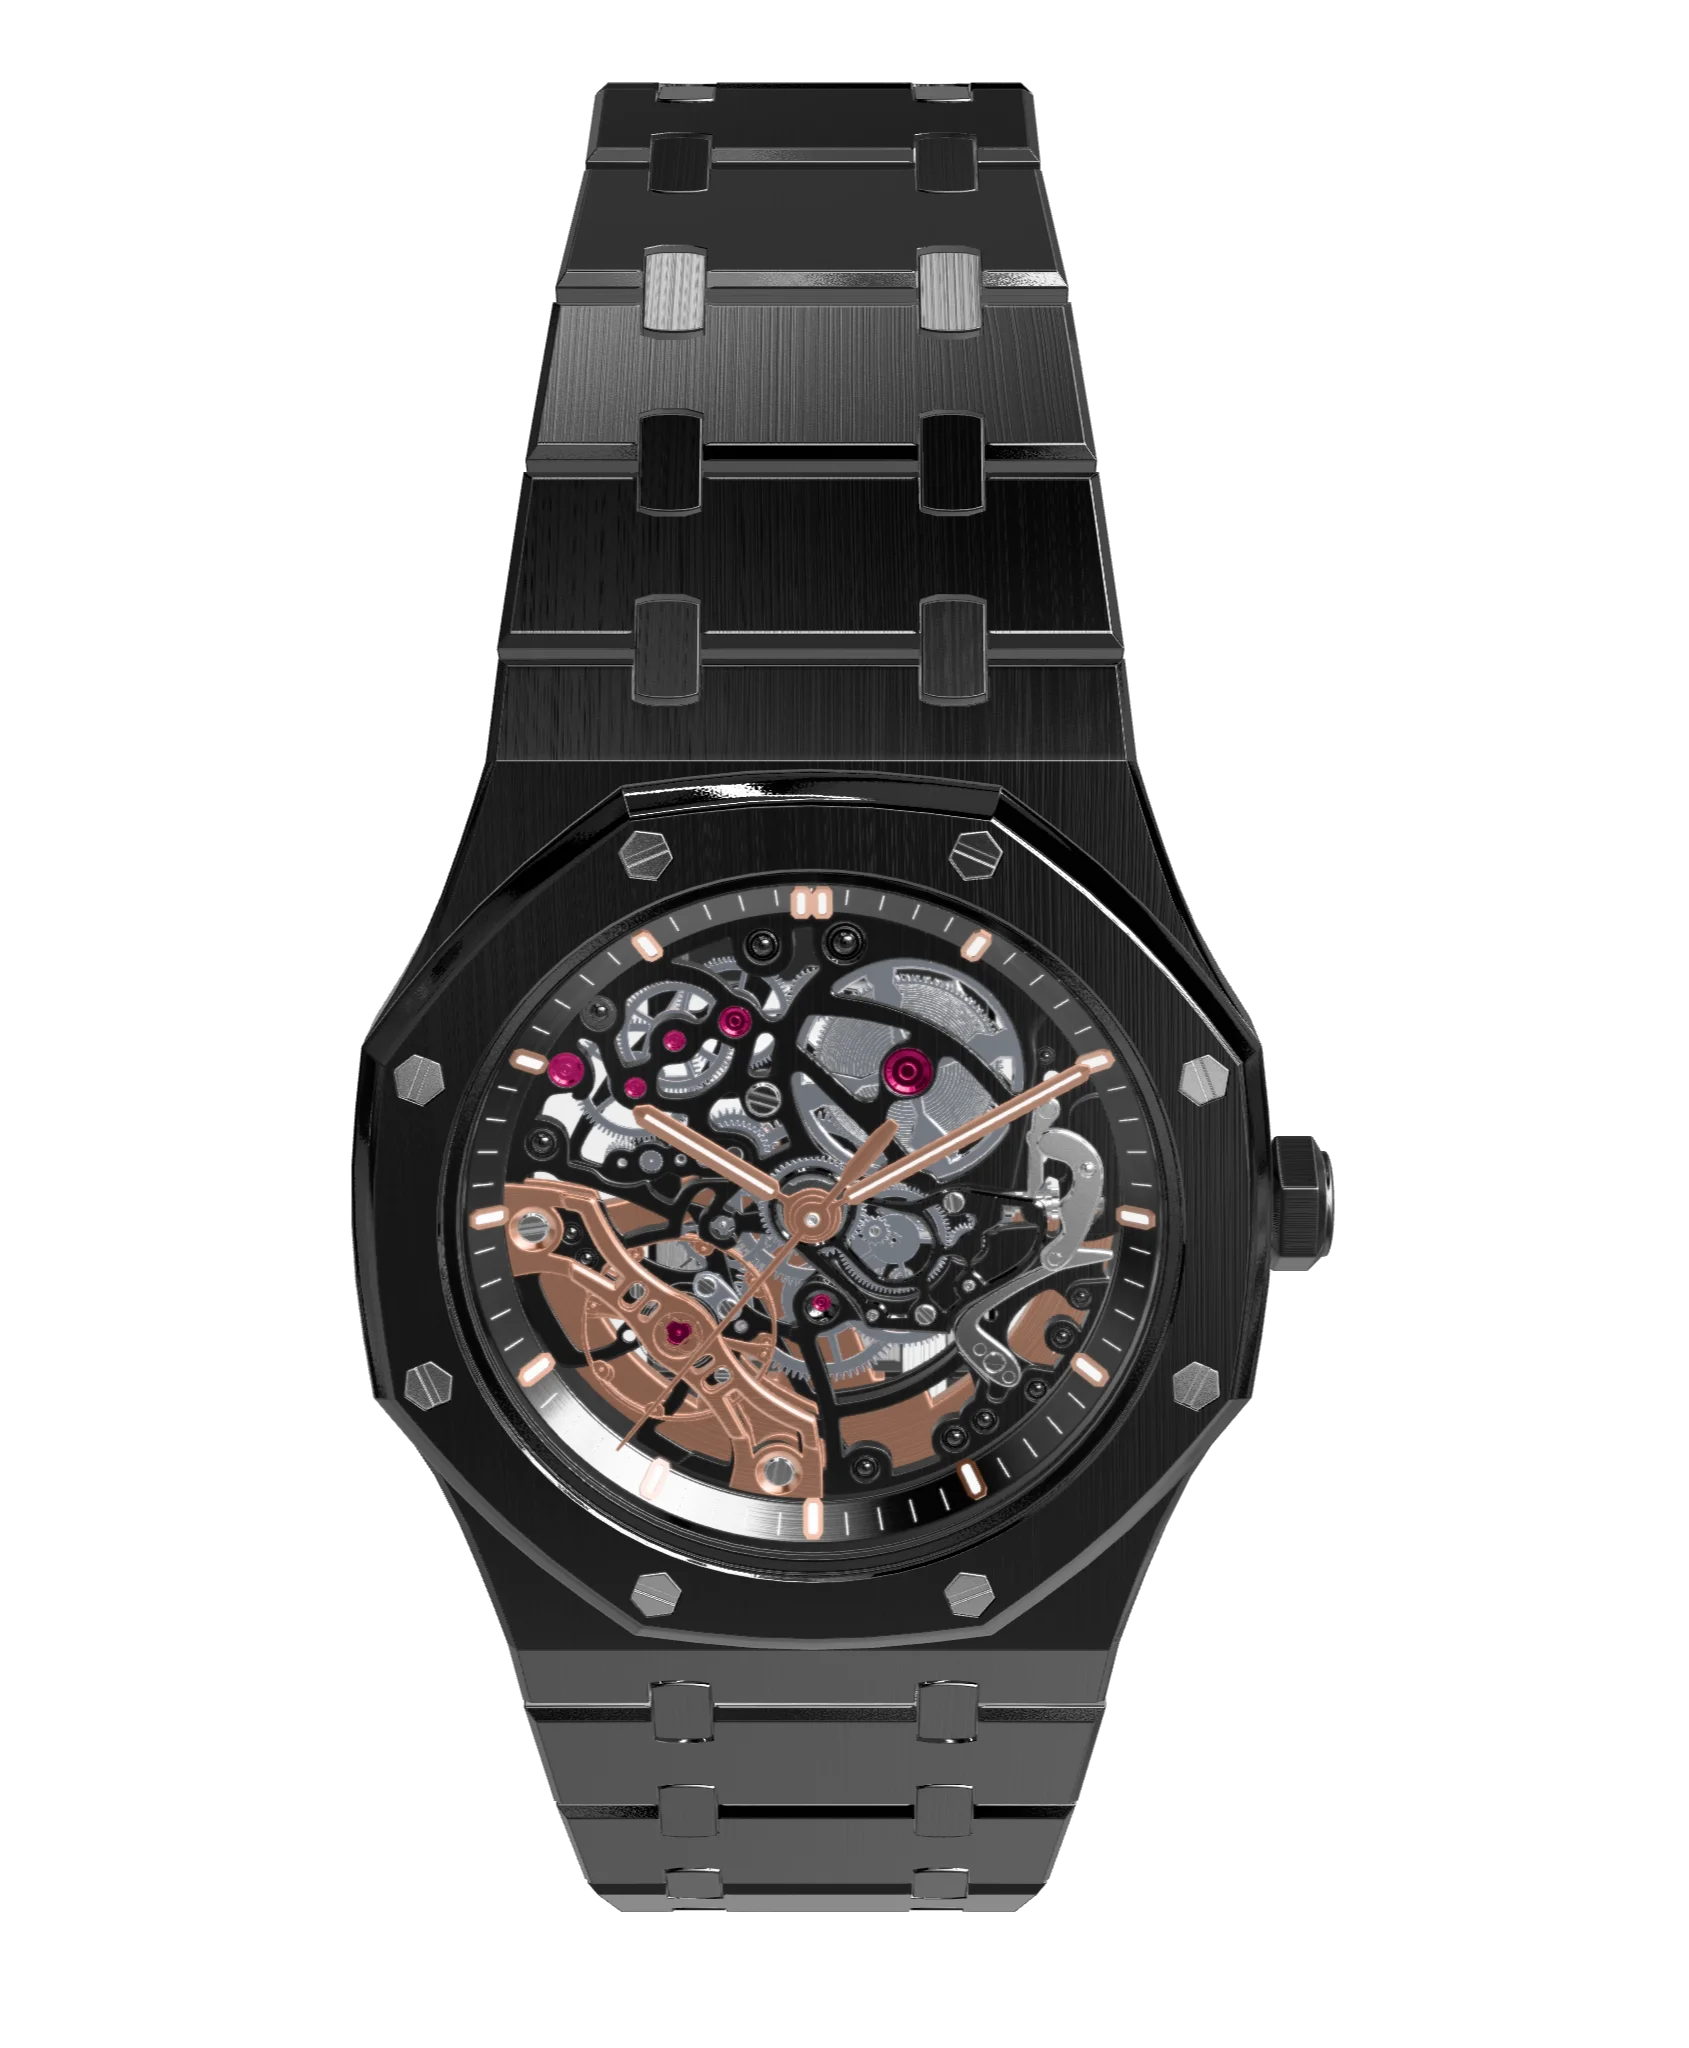
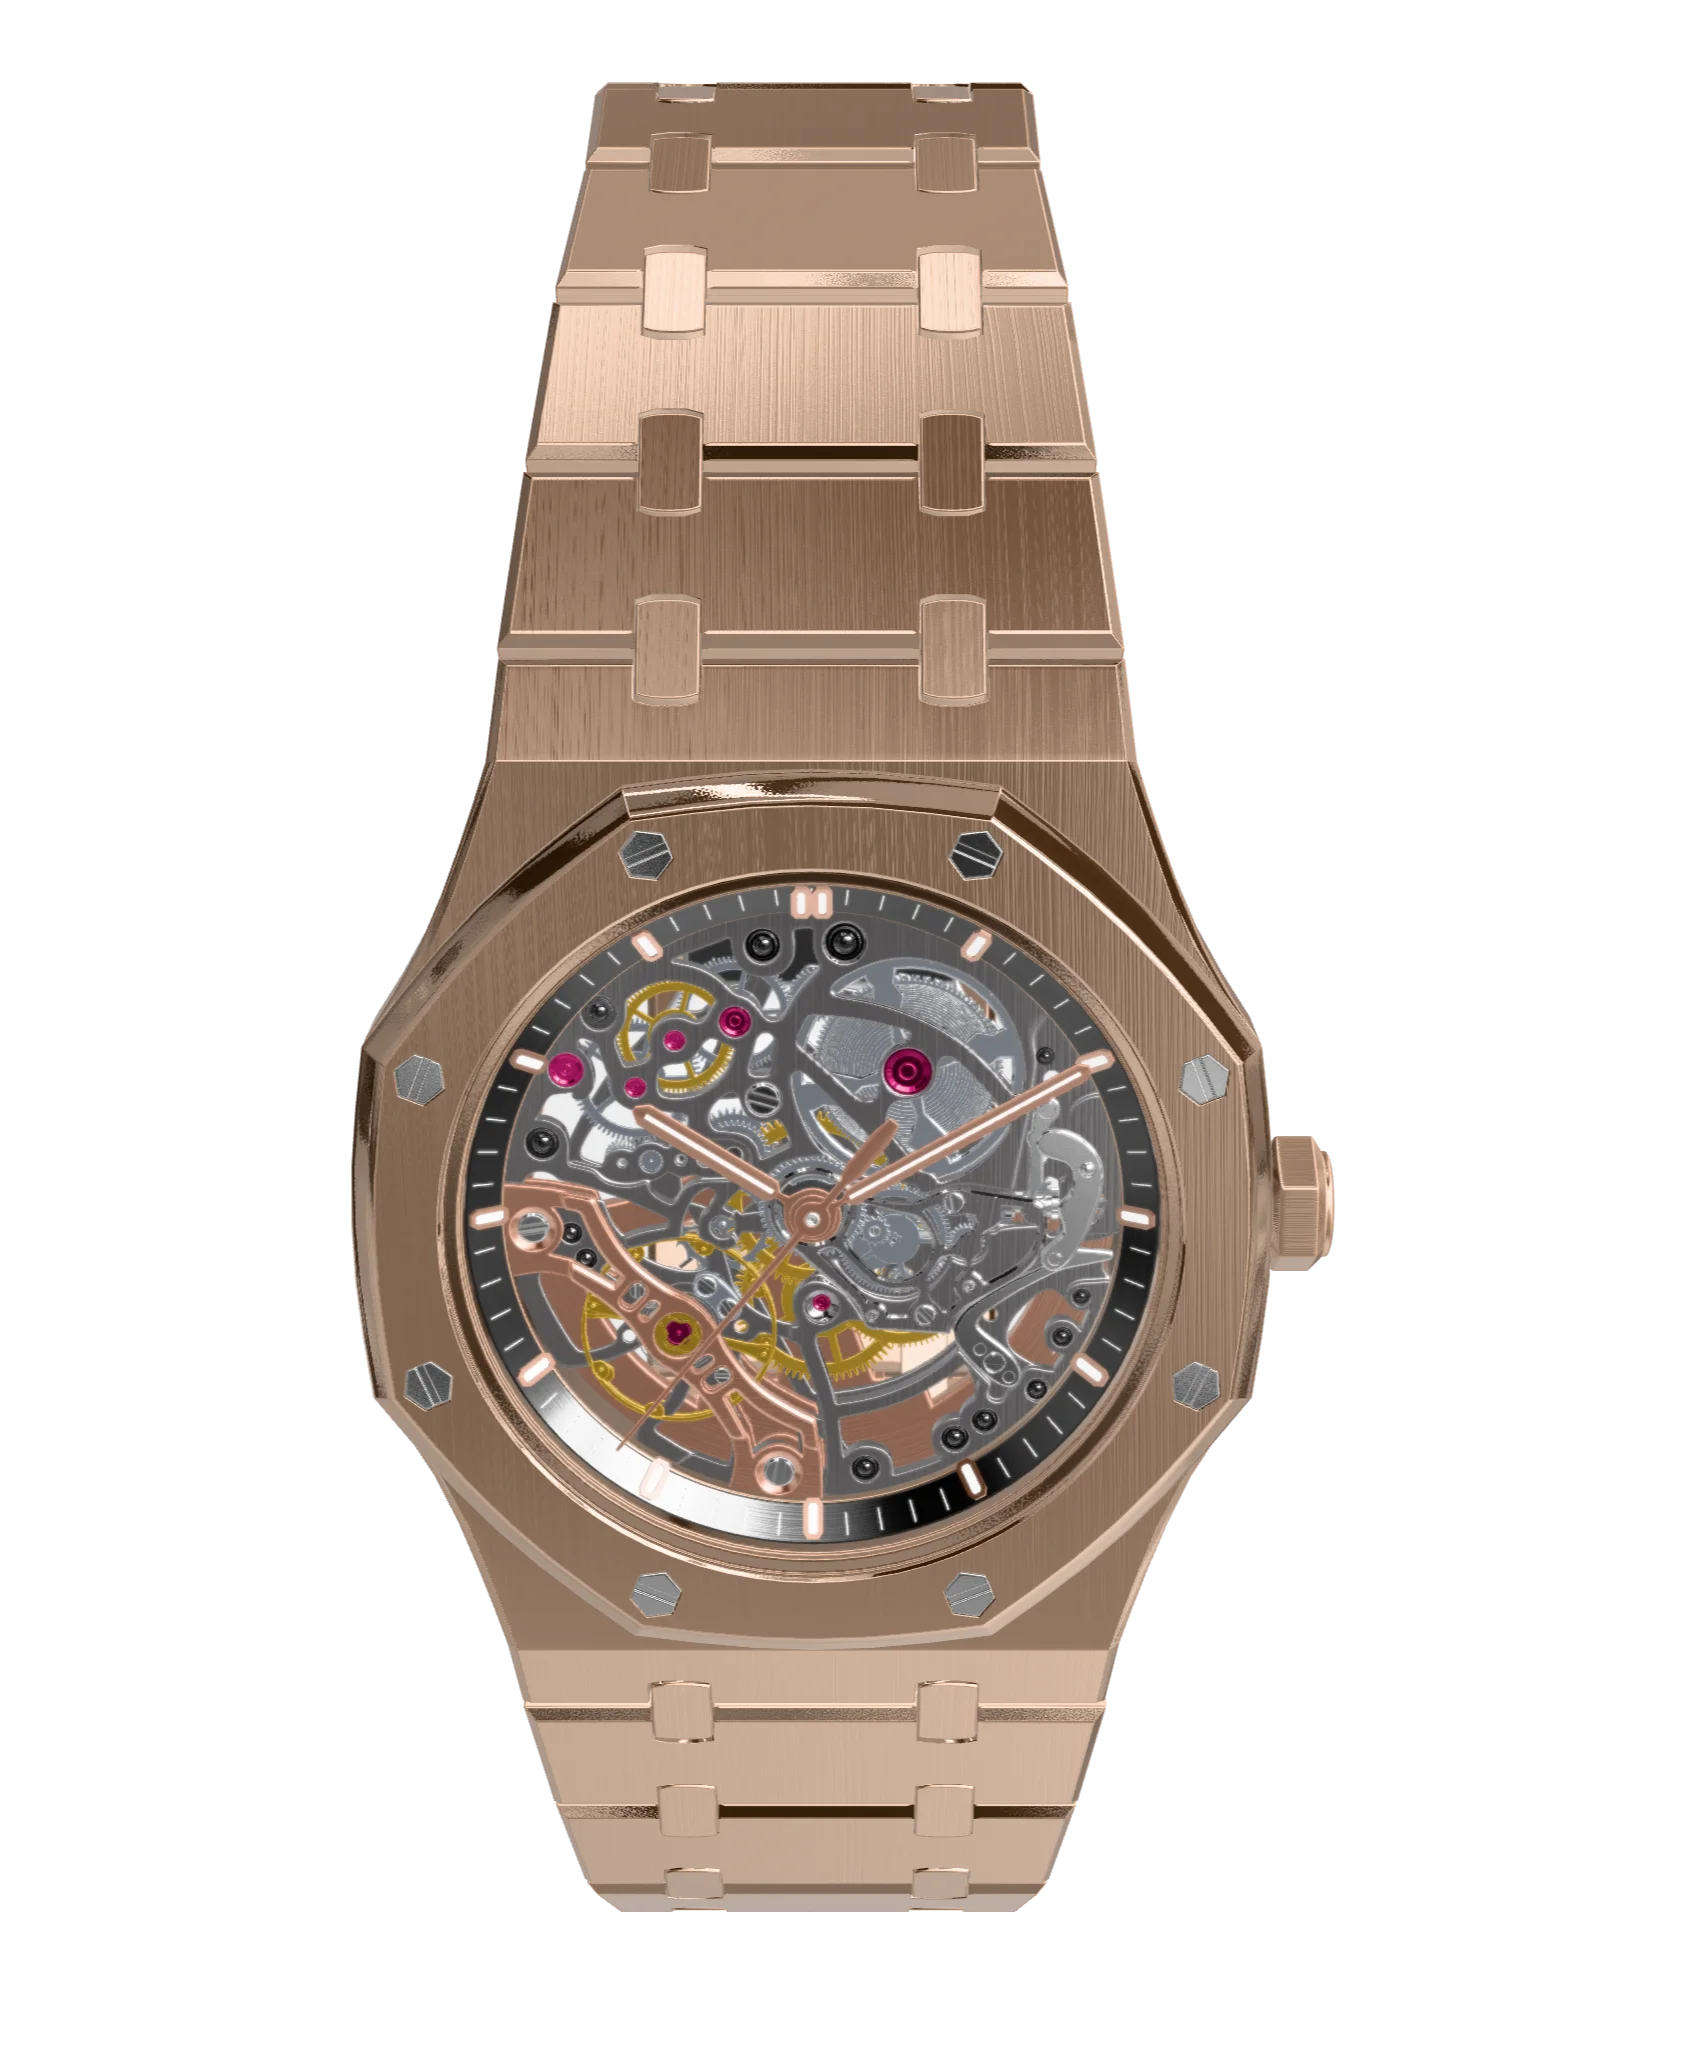
update_html

Changed region(s): [[0.1847, 0.0312, 0.8005, 0.9375]]

diff --git a/index.html b/index.html
@@ -1,22 +1,46 @@
 <!doctype html>
 <html lang="en">
   <head>
-    <title>&lt;model-viewer&gt; template</title>
+    <title>Model Viewer Template</title>
     <meta charset="utf-8">
-    <meta name="description" content="&lt;model-viewer&gt; template">
+    <meta name="description" content="Model Viewer with Variants">
     <meta name="viewport" content="width=device-width, initial-scale=1">
     <link type="text/css" href="./styles.css" rel="stylesheet"/>
   </head>
   <body>
-    <!-- <model-viewer> HTML element -->
-    <model-viewer src="GLTF_AP_RO_Skeleton.glb" ar ar-modes="webxr scene-viewer quick-look" camera-controls tone-mapping="neutral" poster="poster.webp" shadow-intensity="0" environment-image="brown_photostudio_02_2k_BW.hdr" exposure="1.5" shadow-softness="1">
+    <!-- Model Viewer HTML element -->
+    <model-viewer id="ap-watch" src="GLTF_AP_RO_Skeleton.glb" ar ar-modes="webxr scene-viewer quick-look" camera-controls tone-mapping="neutral" 
+      poster="poster.webp" shadow-intensity="0" environment-image="brown_photostudio_02_2k_BW.hdr" 
+      exposure="1.5" shadow-softness="1" alt="Audemars Piguet Royal Oak Watch">
       <div class="progress-bar hide" slot="progress-bar">
           <div class="update-bar"></div>
       </div>
     </model-viewer>  
-    <script src="script.js"></script>
-    <!-- Loads <model-viewer> for browsers: -->
+
+    <!-- Color/Variant Selection -->
+    <div class="colors">
+      <div id="variant" class="variant-container">
+        <!-- Boutons des variantes -->
+        <button class="color-button" style="background-color: #000000;" data-variant="ROSE_GOLD"></button>
+        <button class="color-button" style="background-color: #e7a591;" data-variant="BLACK"></button>
+        <button class="color-button" style="background-color: #C0C0C0;" data-variant="ARGENT"></button>
+      </div>
+    </div>
+
+    <!-- Script to handle color variants -->
+    <script type="module">
+      const modelViewer = document.querySelector("#ap-watch");
+
+      // Event listener to switch between color variants
+      document.getElementById('variant').addEventListener('click', (event) => {
+        if (event.target.tagName === 'BUTTON') {
+          const selectedVariant = event.target.getAttribute('data-variant');
+          modelViewer.variantName = selectedVariant;  // Change to selected variant
+        }
+      });
+    </script>
+
+    <!-- Loads model-viewer for browsers -->
     <script type="module" src="https://ajax.googleapis.com/ajax/libs/model-viewer/3.5.0/model-viewer.min.js"></script>
   </body>
- </script>
 </html>

diff --git a/styles.css b/styles.css
@@ -41,7 +41,7 @@ model-viewer {
 }
 
 .update-bar {
-  background-color: rgba(29, 29, 29, 0.9);
+  background-color: rgba(255, 255, 255, 0.9);
   width: 0%;
   height: 100%;
   border-radius: 25px;
@@ -49,20 +49,36 @@ model-viewer {
   transition: width 0.3s;
 }
 
+/* Container for the viewer and buttons */
+.viewer-container {
+  position: relative;
+  width: 100%;
+  max-width: 800px;
+  margin: 0 auto;
+}
+
+/* Positioning the color buttons on top of the viewer */
+.variant-container {
+  position: absolute;
+  bottom: 10px;  /* Ajuste la distance par rapport au haut du viewer */
+  right: 690px; /* Positionne les boutons à droite */
+  display: flex;
+  gap: 10px; /* Espacement entre les boutons */
+}
+
+/* Style des boutons de couleur */
 .color-button {
-  padding: 10px 20px;
-  margin: 5px;
+  width: 40px;
+  height: 40px;
+  border-radius: 50%;
+  border: 2px solid #eaecf6 ;
   cursor: pointer;
-  border: 1px solid #333;
-  background-color: #f0f0f0;
-  border-radius: 5px;
 }
 
 .color-button:hover {
-  background-color: #ddd;
+  opacity: 1;
+  border: 3px solid #3b3b3b ; /* Changement de bordure au survol */
 }
 
-.color-button.selected {
-  background-color: #333;
-  color: white;
-}
+
+
